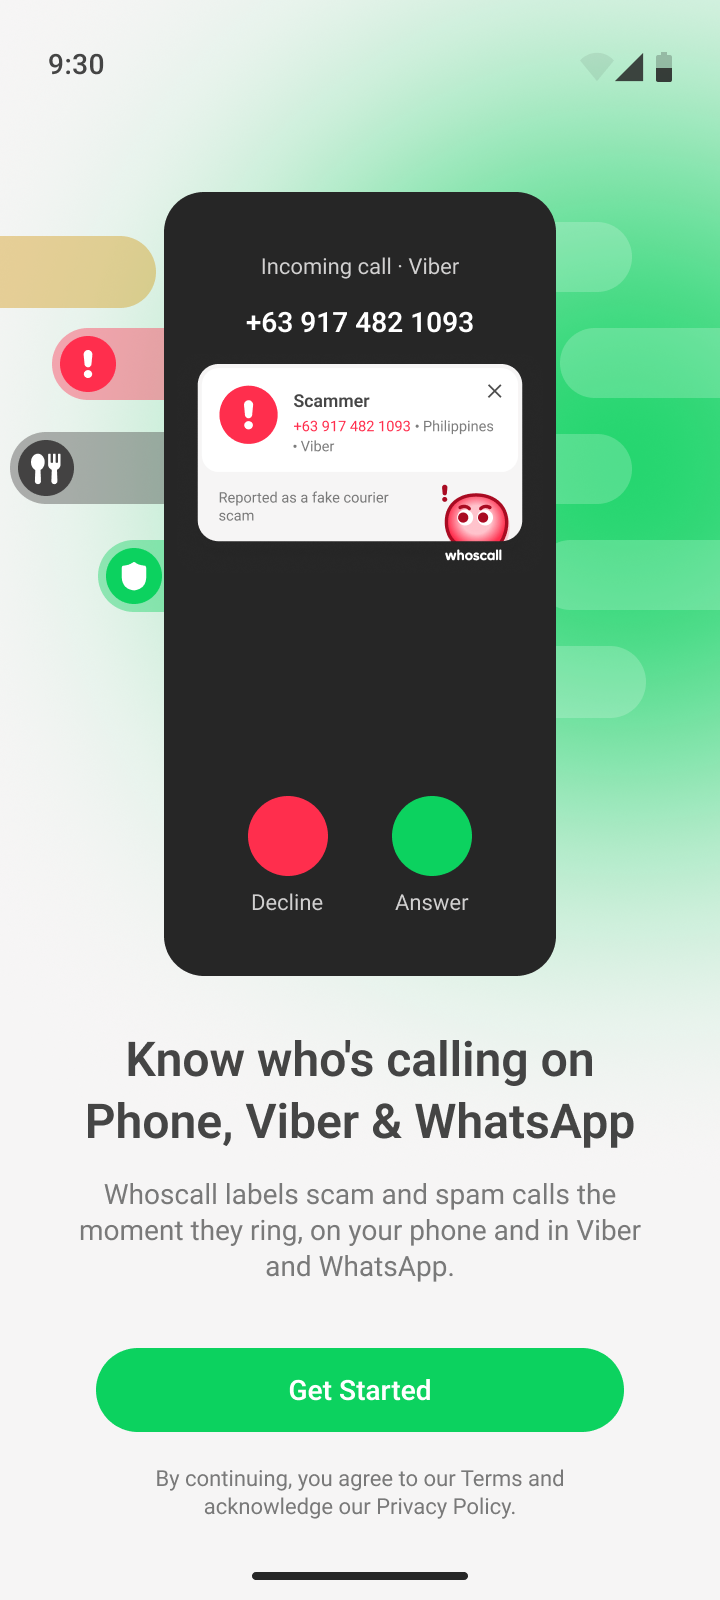
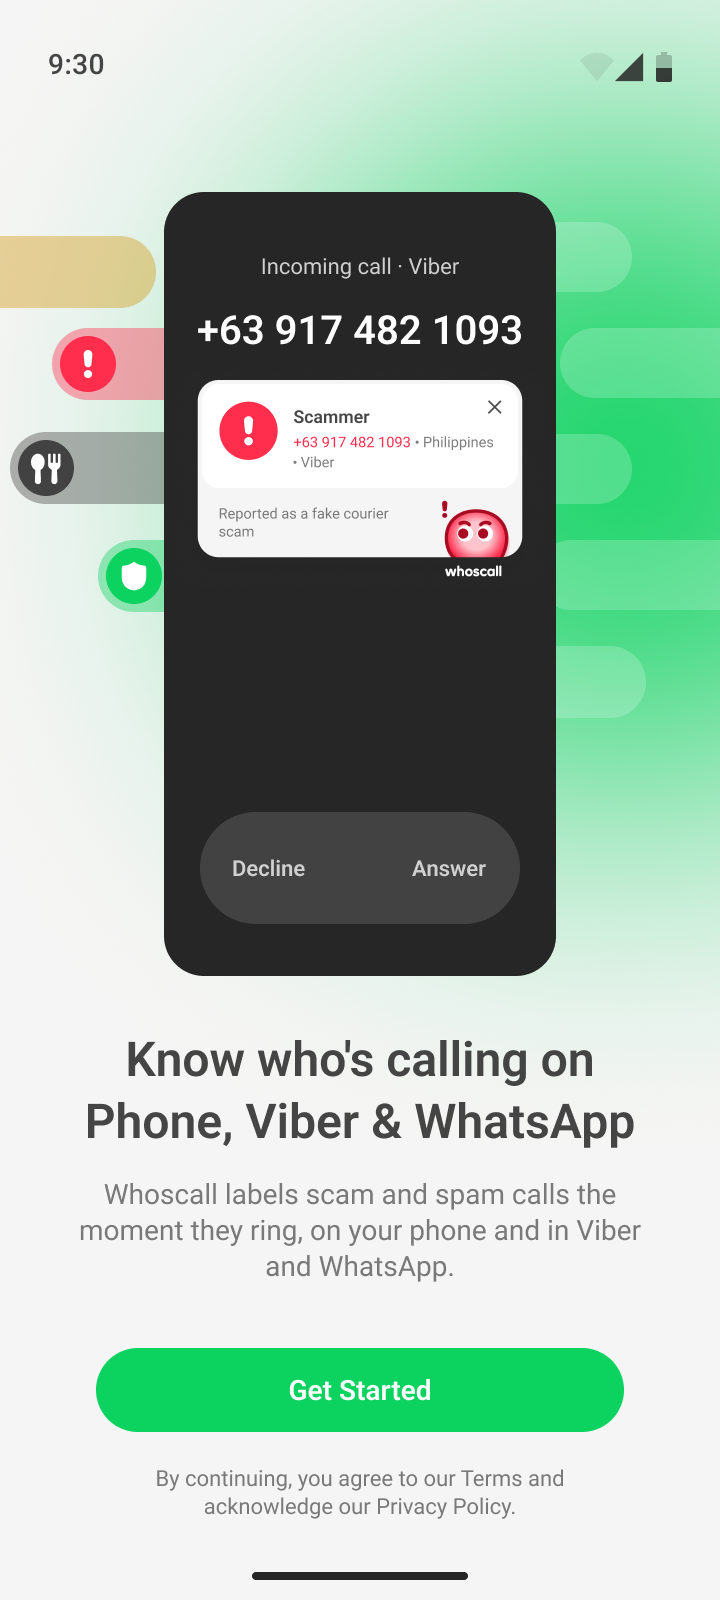
V1: swipe-to-answer/decline handle with two outcomes; V2: transparent home indicator

Changed region(s): [[0.275, 0.1875, 0.7333, 0.375], [0.275, 0.5, 0.7333, 0.5938]]

diff --git a/index.html b/index.html
@@ -8,7 +8,7 @@
 <link rel="stylesheet" href="https://fonts.googleapis.com/css2?family=Roboto:wght@400;500;600;700&display=swap">
 <style>
 /* Layout: version tabs + controls, then C1 and C2 phones side by side. Every pixel on the phones comes from 2× Figma exports;
-   V1 animates cropped regions of those exports, V2 overlays a slider on the phone-screen rect. */
+   V1 animates cropped regions of those exports plus a draggable handle export, V2 overlays a slider on the phone-screen rect. */
 :root{
   --shell-bg:#EEF0EE; --shell-fg:#1E2421; --shell-muted:#5C665F; --shell-line:#D5DBD6; --shell-card:#FFFFFF; --shell-accent:#078E40; --shell-chip:#E1EFE6;
   --ds-text1:rgba(38,38,38,.85); --ds-accent:#0CD25F; --ds-neg:#FF2E4D;
@@ -46,32 +46,40 @@ h1{font-size:clamp(22px,3.2vw,30px);font-weight:700;margin:0;text-wrap:balance;l
 .device{position:absolute;inset:0;border-radius:24px;box-shadow:0 0 0 8px #1E2421,0 18px 40px rgba(0,0,0,.18);overflow:hidden;background:#F6F5F5}
 .screen{width:360px;height:800px;transform-origin:0 0;position:absolute;left:0;top:0;overflow:hidden}
 .layer{position:absolute;inset:0;background-size:360px 800px;background-repeat:no-repeat}
-/* ---------- V1: crops inside the phone screen (x88 y102 w184 h380 in Figma) ---------- */
+/* ---------- V1: everything inside the phone screen (Figma x88 y102 w184 h380) ---------- */
 .v1 .clip{position:absolute;left:88px;top:102px;width:184px;height:380px;border-radius:20px;overflow:hidden}
-.v1 .crop{position:absolute;background-size:360px 800px;background-repeat:no-repeat}
-.v1 .cd{left:0;top:72px;width:184px;height:134px;background-position:-88px -174px}
+.v1 .crop{position:absolute;background-size:360px 800px;background-repeat:no-repeat;pointer-events:none}
+.v1 .cd{left:0;top:80px;width:184px;height:134px;background-position:-88px -182px}
 .v1 .full{left:0;top:0;width:184px;height:380px;background-position:-88px -102px}
 .v1 .c2{opacity:0;transform:translateY(-16px)}
 .v1 .c3{opacity:0;transform-origin:50% 30%}
-.v1 .c4{opacity:0}
-.v1 .pulse{position:absolute;left:64px;top:80px;width:56px;height:56px;border-radius:50%;opacity:0}
-.v1 .red{position:absolute;left:36px;top:296px;width:40px;height:40px;border-radius:50%;background:var(--ds-neg);opacity:0;transform:scale(1)}
+.v1 .c4d,.v1 .c4a{opacity:0}
+.v1 .pulse{position:absolute;left:60px;top:88px;width:64px;height:64px;border-radius:50%;opacity:0;pointer-events:none}
 .v1.anim .c2{transition:opacity .35s ease-out,transform .5s cubic-bezier(.2,.8,.2,1)}
-.v1.anim .c4{transition:opacity .45s ease-out}
 .v1.s1 .pulse{opacity:1;animation:ring 1.1s ease-out infinite}
 @keyframes ring{0%{box-shadow:0 0 0 0 rgba(209,208,208,.55)}100%{box-shadow:0 0 0 16px rgba(209,208,208,0)}}
-.v1.s2 .c2,.v1.s3 .c2{opacity:1;transform:none}
-.v1.s3 .c3{opacity:1}
+.v1.s2 .c2,.v1.s3 .c2,.v1.s4 .c2{opacity:1;transform:none}
+.v1.s3 .c3,.v1.s4 .c3{opacity:1}
 .v1.anim.s3 .c3{animation:pop .5s cubic-bezier(.3,1.4,.5,1) both}
 @keyframes pop{0%{opacity:0;transform:scale(.92)}60%{opacity:1;transform:scale(1.04)}100%{opacity:1;transform:scale(1)}}
-.v1.tap .red{animation:tapExpand .75s cubic-bezier(.55,0,.35,1) forwards}
-@keyframes tapExpand{0%{opacity:1;transform:scale(1)}16%{opacity:1;transform:scale(.82)}32%{opacity:1;transform:scale(1.08)}100%{opacity:1;transform:scale(18)}}
-.v1.s4 .c3,.v1.s4 .c2{opacity:1}
-.v1.s4 .red{opacity:1;transform:scale(18)}
-.v1.s4 .c4{opacity:1}
-.v1.anim.s4 .c4{animation:reveal .55s cubic-bezier(.2,.8,.2,1) both}
+/* Draggable handle: Figma handle export (48px) on the swipe pill; travel 16..120px inside the clip, centre 68 */
+.v1 .handle{position:absolute;top:308px;left:68px;width:48px;height:48px;border-radius:50%;background:center/48px 48px no-repeat;cursor:grab;touch-action:none;border:0;padding:0;-webkit-tap-highlight-color:transparent}
+.v1 .handle:active{cursor:grabbing}
+.v1 .handle.spring{transition:left .35s cubic-bezier(.3,1.5,.5,1)}
+.v1 .handle.slide{transition:left .55s cubic-bezier(.6,0,.3,1)}
+.v1 .handle:focus-visible{outline:2px solid #fff;outline-offset:2px}
+.v1.wait .handle{animation:nudge 1.6s ease-in-out infinite}
+@keyframes nudge{0%,100%{transform:translateX(0)}20%{transform:translateX(-9px)}40%{transform:translateX(0)}60%{transform:translateX(9px)}80%{transform:translateX(0)}}
+.v1 .flood{position:absolute;width:40px;height:40px;margin:-20px 0 0 -20px;border-radius:50%;opacity:0;transform:scale(1);pointer-events:none}
+.v1 .flood.dec{background:var(--ds-neg)} .v1 .flood.ans{background:var(--ds-accent)}
+.v1.go .flood{animation:flood .6s cubic-bezier(.5,0,.3,1) forwards}
+@keyframes flood{0%{opacity:1;transform:scale(1)}100%{opacity:1;transform:scale(20)}}
+.v1.s4 .flood{opacity:1;transform:scale(20)}
+.v1.s4.dec .c4d,.v1.s4.ans .c4a{opacity:1}
+.v1.anim.s4.dec .c4d,.v1.anim.s4.ans .c4a{animation:reveal .55s cubic-bezier(.2,.8,.2,1) both}
 @keyframes reveal{0%{opacity:0;transform:scale(1.12)}100%{opacity:1;transform:scale(1)}}
-.v1.s4.settled .red{opacity:0}
+.v1.s4.settled .flood{opacity:0}
+.v1.s4 .handle,.v1.go .handle{visibility:hidden}
 .v1.fadeout .clip{animation:fadeclip .35s ease-in forwards}
 @keyframes fadeclip{to{opacity:0}}
 /* ---------- V2: slider on the visible phone-screen rect (x50 y82 w260 h410) ---------- */
@@ -97,7 +105,7 @@ footer{font-size:12.5px;line-height:1.6;color:var(--shell-muted);border-top:1px 
   </header>
 
   <div class="tabs" role="tablist" aria-label="Presentation version">
-    <button class="tab" role="tab" aria-selected="true" data-v="v1">V1 · Simulated call (story)<small>Rings, the Whoscall dialog slides in and shows “Scammer”, Decline is tapped and the call is blocked.</small></button>
+    <button class="tab" role="tab" aria-selected="true" data-v="v1">V1 · Simulated call (story)<small>Rings, the Whoscall dialog shows “Scammer”; drag the handle to Decline or Answer (slides to Decline if left alone).</small></button>
     <button class="tab" role="tab" aria-selected="false" data-v="v2">V2 · Before / After (slider)<small>Top half of a phone on a light screen; drag toward After and the background glows.</small></button>
   </div>
 
@@ -121,42 +129,74 @@ footer{font-size:12.5px;line-height:1.6;color:var(--shell-muted);border-top:1px 
     </section>
   </div>
 
-  <footer>All phone pixels are 2× PNG exports of the Figma frames (720×1600, shown at 360×800). V1 motion is made by moving and fading cropped parts of those exports; the red tap-and-expand transition and the ringing halo are drawn by this page. In V2 only the slider line, handle and Before/After labels are drawn by this page. Numbers and labels are examples, not a real lookup.</footer>
+  <footer>All phone pixels are 2× PNG exports of the Figma frames (720×1600, shown at 360×800), including the swipe handle with the Whoscall phone icon. V1 motion moves and fades cropped parts of those exports; the ringing halo and the red / green flood after a swipe are drawn by this page. Drag the handle left past the Decline threshold for “You avoided a high-risk call!”, or right to Answer for “Now you know who’s calling you!”; a short drag springs back. Each phone runs on its own. In V2 only the slider line, handle and Before/After labels are drawn by this page. Numbers and labels are examples, not a real lookup.</footer>
 </div>
 
 <script>
 const A='prototype_assets/';
-const BEATS=[{name:'Beat 1 · Ringing'},{name:'Beat 2 · Searching'},{name:'Beat 3 · Identified'},{name:'Beat 4 · Declined'}];
+const VER='?v=20261106d';
+const BEATS=['Beat 1 · Ringing','Beat 2 · Searching','Beat 3 · Identified','Beat 4 · Declined','Beat 4 · Answered'];
 const screens=[...document.querySelectorAll('.screen')];
 const reduce=window.matchMedia&&matchMedia('(prefers-reduced-motion: reduce)').matches;
-let ver='v1', playing=true, timers=[], curBeat=0; const sliders=[];
-const VER='?v=20261105c';
+let ver='v1', playing=true; const sliders=[];
 const bg=(c,f)=>`background-image:url(${A}${f.replace('C',c)}${VER})`;
-function renderV1(el){const c=el.dataset.c;
-  el.className='screen v1 s1';
-  el.innerHTML=`<div class="layer" style="${bg(c,'v1_C_b1.png')}" role="img" aria-label="${c.toUpperCase()} call story"></div>
+const CENTER=68, MINX=16, MAXX=120, TRIG=36;           // handle left (px) inside the clip
+const T_S2=1500, T_S3=2700, AUTO=4500;
+const ctrls=screens.map(el=>({el,timers:[],state:'s1',extra:'',choice:'dec',busy:false}));
+function renderV1(el){const c=el.dataset.c; const ctl=ctrls.find(x=>x.el===el);
+  el.innerHTML=`<div class="layer" style="${bg(c,'v1_C_b1.png')}" role="img" aria-label="${c.toUpperCase()} incoming call"></div>
   <div class="clip"><i class="pulse"></i>
     <div class="crop cd c2" style="${bg(c,'v1_C_b2.png')}"></div>
     <div class="crop cd c3" style="${bg(c,'v1_C_b3.png')}"></div>
-    <i class="red"></i>
-    <div class="crop full c4" style="${bg(c,'v1_C_b4.png')}"></div>
-  </div>`;}
-function setState(st,{anim=true,extra=''}={}){ screens.forEach(s=>{ s.className='screen v1 '+st+(anim&&!reduce?' anim':'')+(extra?' '+extra:''); }); }
-function clearTimers(){ timers.forEach(clearTimeout); timers=[]; }
-const at=(ms,fn)=>timers.push(setTimeout(fn,ms));
-function markStep(i){ curBeat=i; stepBtns.forEach((b,j)=>b.classList.toggle('on',j===i)); }
-function runStory(){
-  clearTimers(); if(!playing||ver!=='v1') return;
-  setState('s1',{anim:false}); markStep(0);
-  at(1500,()=>{ setState('s2'); markStep(1); });
-  at(2700,()=>{ setState('s3'); markStep(2); });
-  at(4200,()=>{ setState('s3',{extra:'tap'}); });
-  at(4950,()=>{ setState('s4'); markStep(3); });
-  at(5500,()=>{ setState('s4',{extra:'settled'}); });
-  at(6700,()=>{ setState('s4',{extra:'settled fadeout'}); });
-  at(7050,()=>runStory());
+    <i class="flood"></i>
+    <div class="crop full c4d" style="${bg(c,'v1_C_b4d.png')}"></div>
+    <div class="crop full c4a" style="${bg(c,'v1_C_b4a.png')}"></div>
+    <button type="button" class="handle" aria-label="Swipe handle: left arrow to Decline, right arrow to Answer" style="background-image:url(${A}v1_handle.png${VER})"></button>
+  </div>`;
+  ctl.handle=el.querySelector('.handle'); ctl.flood=el.querySelector('.flood');
+  setHandle(ctl,CENTER); setState(ctl,'s1',{anim:false}); bindDrag(ctl);}
+function setState(c,st,{anim=true,extra=''}={}){ c.state=st; c.extra=extra; c.el.className='screen v1 '+st+(anim&&!reduce?' anim':'')+(extra?' '+extra:''); }
+function clr(c){ c.timers.forEach(clearTimeout); c.timers=[]; }
+const at=(c,ms,fn)=>c.timers.push(setTimeout(fn,ms));
+function setHandle(c,x,mode){ const h=c.handle; h.classList.remove('spring','slide'); if(mode&&!reduce){ void h.offsetWidth; h.classList.add(mode); } h.style.left=x+'px'; c.hx=x; }
+function markStep(i){ stepBtns.forEach((b,j)=>b.classList.toggle('on',j===i)); }
+function schedule(c,from){ // continue the story from a beat
+  clr(c); if(!playing||ver!=='v1') return;
+  if(from<=1){ setState(c,'s1',{anim:from===1}); markStep(0); at(c,T_S2,()=>schedule(c,2)); return; }
+  if(from===2){ setState(c,'s2'); markStep(1); at(c,T_S3-T_S2,()=>schedule(c,3)); return; }
+  setState(c,'s3',{extra:'wait'}); markStep(2);
+  at(c,AUTO,()=>{ setHandle(c,MINX,'slide'); at(c,560,()=>choose(c,'dec',false)); });
 }
-function showStatic(i){ clearTimers(); const st=['s1','s2','s3','s4'][i]; setState(st,{anim:false,extra:i===3?'settled':''}); markStep(i); }
+function runStory(c){ c.busy=false; setHandle(c,CENTER); schedule(c,1); }
+function choose(c,which,manual){
+  if(ver!=='v1'||c.busy) return; c.busy=true; clr(c); c.choice=which;
+  const fx=c.hx+24, fy=332; c.flood.className='flood '+which; c.flood.style.left=fx+'px'; c.flood.style.top=fy+'px';
+  setState(c,c.state==='s1'?'s1':c.state,{extra:'go'});
+  at(c,600,()=>{ setState(c,'s4',{extra:which}); markStep(which==='dec'?3:4); });
+  at(c,1150,()=>setState(c,'s4',{extra:which+' settled'}));
+  if(!playing) return;
+  const hold=manual?3800:2600;
+  at(c,hold,()=>setState(c,'s4',{extra:which+' settled fadeout'}));
+  at(c,hold+350,()=>runStory(c));
+}
+function bindDrag(c){
+  const h=c.handle; let startX=0, startLeft=CENTER, dragging=false, scale=1;
+  const toBeat=()=>c.state==='s1'?1:c.state==='s2'?2:3;
+  h.addEventListener('pointerdown',e=>{ if(c.busy) return; dragging=true; clr(c); c.el.classList.remove('wait'); h.setPointerCapture(e.pointerId);
+    scale=c.el.getBoundingClientRect().width/360; startX=e.clientX; startLeft=c.hx; setHandle(c,c.hx); });
+  h.addEventListener('pointermove',e=>{ if(!dragging) return; const x=Math.max(MINX,Math.min(MAXX,startLeft+(e.clientX-startX)/scale)); setHandle(c,x); });
+  const end=()=>{ if(!dragging) return; dragging=false; const d=c.hx-CENTER;
+    if(d<=-TRIG){ setHandle(c,MINX,'spring'); choose(c,'dec',true); }
+    else if(d>=TRIG){ setHandle(c,MAXX,'spring'); choose(c,'ans',true); }
+    else { setHandle(c,CENTER,'spring'); if(playing) schedule(c,toBeat()); else if(c.state==='s3') c.el.classList.add('wait'); } };
+  h.addEventListener('pointerup',end); h.addEventListener('pointercancel',end);
+  h.addEventListener('keydown',e=>{ if(c.busy) return; if(e.key==='ArrowLeft'){ e.preventDefault(); setHandle(c,MINX,'slide'); setTimeout(()=>choose(c,'dec',true),300); }
+    if(e.key==='ArrowRight'){ e.preventDefault(); setHandle(c,MAXX,'slide'); setTimeout(()=>choose(c,'ans',true),300); } });
+}
+function showStatic(i){ ctrls.forEach(c=>{ clr(c); c.busy=i>=3; setHandle(c,CENTER);
+  if(i<3) setState(c,['s1','s2','s3'][i],{anim:false,extra:i===2?'wait':''});
+  else { const w=i===3?'dec':'ans'; c.choice=w; setState(c,'s4',{anim:false,extra:w+' settled'}); } }); markStep(i); }
+/* ---------- V2 ---------- */
 function renderV2(el){const c=el.dataset.c; el.className='screen v2'; el.style.setProperty('--p','.5');
   el.innerHTML=`<div class="layer" style="${bg(c,'v2_C_before.png')}" role="img" aria-label="${c.toUpperCase()} before: call screen with only the number"></div><div class="layer glowl" style="${bg(c,'v2_C_before_glow.png')}"></div>
   <div class="afterwrap"><div class="layer" style="${bg(c,'v2_C_after.png')}" role="img" aria-label="${c.toUpperCase()} after: same call screen with the Whoscall call dialog"></div><div class="layer glowl" style="${bg(c,'v2_C_after_glow.png')}"></div></div>
@@ -174,19 +214,20 @@ function wiggle(){
     if(t<end) requestAnimationFrame(frame); else sliders.forEach(st=>{ if(!st.touched) st.set(50); });
   })(performance.now());
 }
+/* ---------- controls ---------- */
 const stepsEl=document.getElementById('steps');
-const stepBtns=BEATS.map((b,i)=>{const x=document.createElement('button');x.className='step';x.type='button';x.textContent=b.name;
+const stepBtns=BEATS.map((name,i)=>{const x=document.createElement('button');x.className='step';x.type='button';x.textContent=name;
   x.addEventListener('click',()=>{ playing=false; play.textContent='Play'; play.setAttribute('aria-pressed','false'); showStatic(i); });
   stepsEl.appendChild(x);return x;});
 const play=document.getElementById('play'), replay=document.getElementById('replay'), v2note=document.getElementById('v2note');
-play.addEventListener('click',()=>{ playing=!playing; play.textContent=playing?'Pause':'Play'; play.setAttribute('aria-pressed',String(playing)); if(playing) runStory(); else clearTimers(); });
+play.addEventListener('click',()=>{ playing=!playing; play.textContent=playing?'Pause':'Play'; play.setAttribute('aria-pressed',String(playing)); if(playing) ctrls.forEach(runStory); else ctrls.forEach(clr); });
 replay.addEventListener('click',wiggle);
 function setVer(v){
-  ver=v; clearTimers(); sliders.length=0;
+  ver=v; ctrls.forEach(clr); sliders.length=0;
   document.querySelectorAll('.tab').forEach(t=>t.setAttribute('aria-selected',String(t.dataset.v===v)));
   const isV2=v==='v2'; play.hidden=isV2; stepsEl.hidden=isV2; v2note.hidden=!isV2; replay.hidden=!isV2;
   screens.forEach(s=> isV2? renderV2(s) : renderV1(s)); fit();
-  if(isV2) wiggle(); else { playing=true; play.textContent='Pause'; play.setAttribute('aria-pressed','true'); if(reduce) showStatic(2); else runStory(); }
+  if(isV2) wiggle(); else { playing=true; play.textContent='Pause'; play.setAttribute('aria-pressed','true'); if(reduce) showStatic(2); else ctrls.forEach(runStory); }
   try{ if(location.hash!=='#'+v) history.replaceState(null,'','#'+v);}catch(e){}
 }
 document.querySelectorAll('.tab').forEach(t=>t.addEventListener('click',()=>setVer(t.dataset.v)));
@@ -194,8 +235,8 @@ function fromHash(){return (location.hash||'').slice(1)==='v2'?'v2':'v1';}
 window.addEventListener('hashchange',()=>{const v=fromHash(); if(v!==ver) setVer(v);});
 function fit(){document.querySelectorAll('.stage').forEach(st=>{st.querySelector('.screen').style.transform='scale('+(st.clientWidth/360)+')';});}
 new ResizeObserver(fit).observe(document.querySelector('.grid'));
-['c1','c2'].forEach(c=>{[1,2,3,4].forEach(b=>{new Image().src=`${A}v1_${c}_b${b}.png${VER}`;});['before','after','before_glow','after_glow'].forEach(s=>{new Image().src=`${A}v2_${c}_${s}.png${VER}`;});});
+new Image().src=`${A}v1_handle.png${VER}`;
+['c1','c2'].forEach(c=>{['b1','b2','b3','b4d','b4a'].forEach(b=>{new Image().src=`${A}v1_${c}_${b}.png${VER}`;});['before','after','before_glow','after_glow'].forEach(s=>{new Image().src=`${A}v2_${c}_${s}.png${VER}`;});});
 setVer(fromHash());
 </script>
-
 </html>
